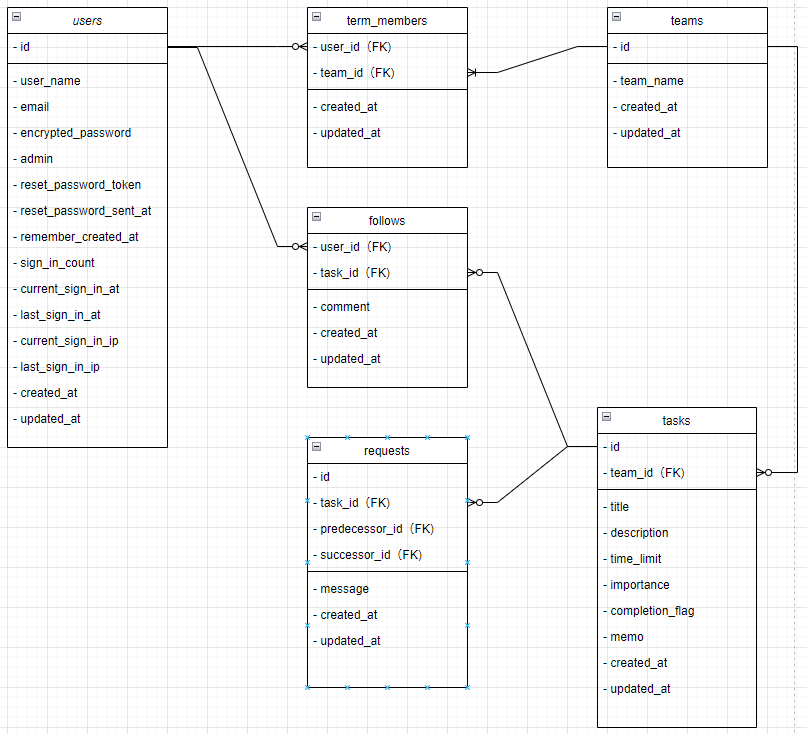
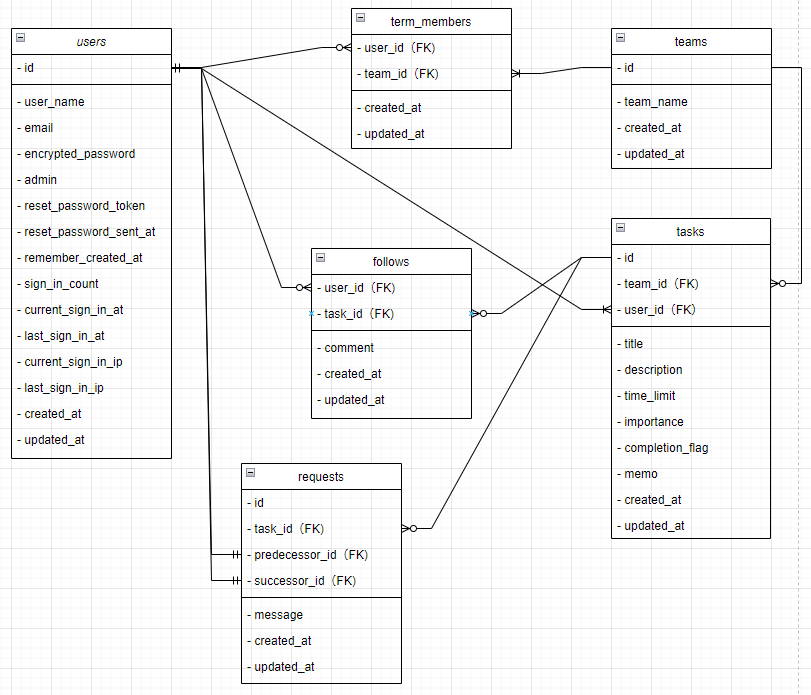
タスクのshow、indexに投稿者の名前を表示

diff --git a/db/schema.rb b/db/schema.rb
@@ -10,7 +10,7 @@
 #
 # It's strongly recommended that you check this file into your version control system.
 
-ActiveRecord::Schema.define(version: 2022_09_30_043759) do
+ActiveRecord::Schema.define(version: 2022_09_30_100545) do
 
   # These are extensions that must be enabled in order to support this database
   enable_extension "plpgsql"
@@ -24,6 +24,8 @@ ActiveRecord::Schema.define(version: 2022_09_30_043759) do
     t.text "memo"
     t.datetime "created_at", precision: 6, null: false
     t.datetime "updated_at", precision: 6, null: false
+    t.bigint "user_id", null: false
+    t.index ["user_id"], name: "index_tasks_on_user_id"
   end
 
   create_table "users", force: :cascade do |t|
@@ -45,4 +47,5 @@ ActiveRecord::Schema.define(version: 2022_09_30_043759) do
     t.index ["reset_password_token"], name: "index_users_on_reset_password_token", unique: true
   end
 
+  add_foreign_key "tasks", "users"
 end

diff --git a/app/models/user.rb b/app/models/user.rb
@@ -3,4 +3,5 @@ class User < ApplicationRecord
   # :confirmable, :lockable, :timeoutable, :trackable and :omniauthable
   devise :database_authenticatable, :registerable,
               :recoverable, :rememberable, :validatable
+  has_many :tasks
 end

diff --git a/app/controllers/tasks_controller.rb b/app/controllers/tasks_controller.rb
@@ -22,7 +22,7 @@ class TasksController < ApplicationController
 
   # POST /tasks or /tasks.json
   def create
-    @task = Task.new(task_params)
+    @task = current_user.tasks.build(task_params)
 
     respond_to do |format|
       if @task.save

diff --git a/db/migrate/20220930100545_add_user_ref_to_tasks.rb b/db/migrate/20220930100545_add_user_ref_to_tasks.rb
@@ -1,0 +1,5 @@
+class AddUserRefToTasks < ActiveRecord::Migration[6.1]
+  def change
+    add_reference :tasks, :user, null: false, foreign_key: true
+  end
+end

diff --git a/app/models/task.rb b/app/models/task.rb
@@ -1,2 +1,3 @@
 class Task < ApplicationRecord
+    belongs_to :user
 end
